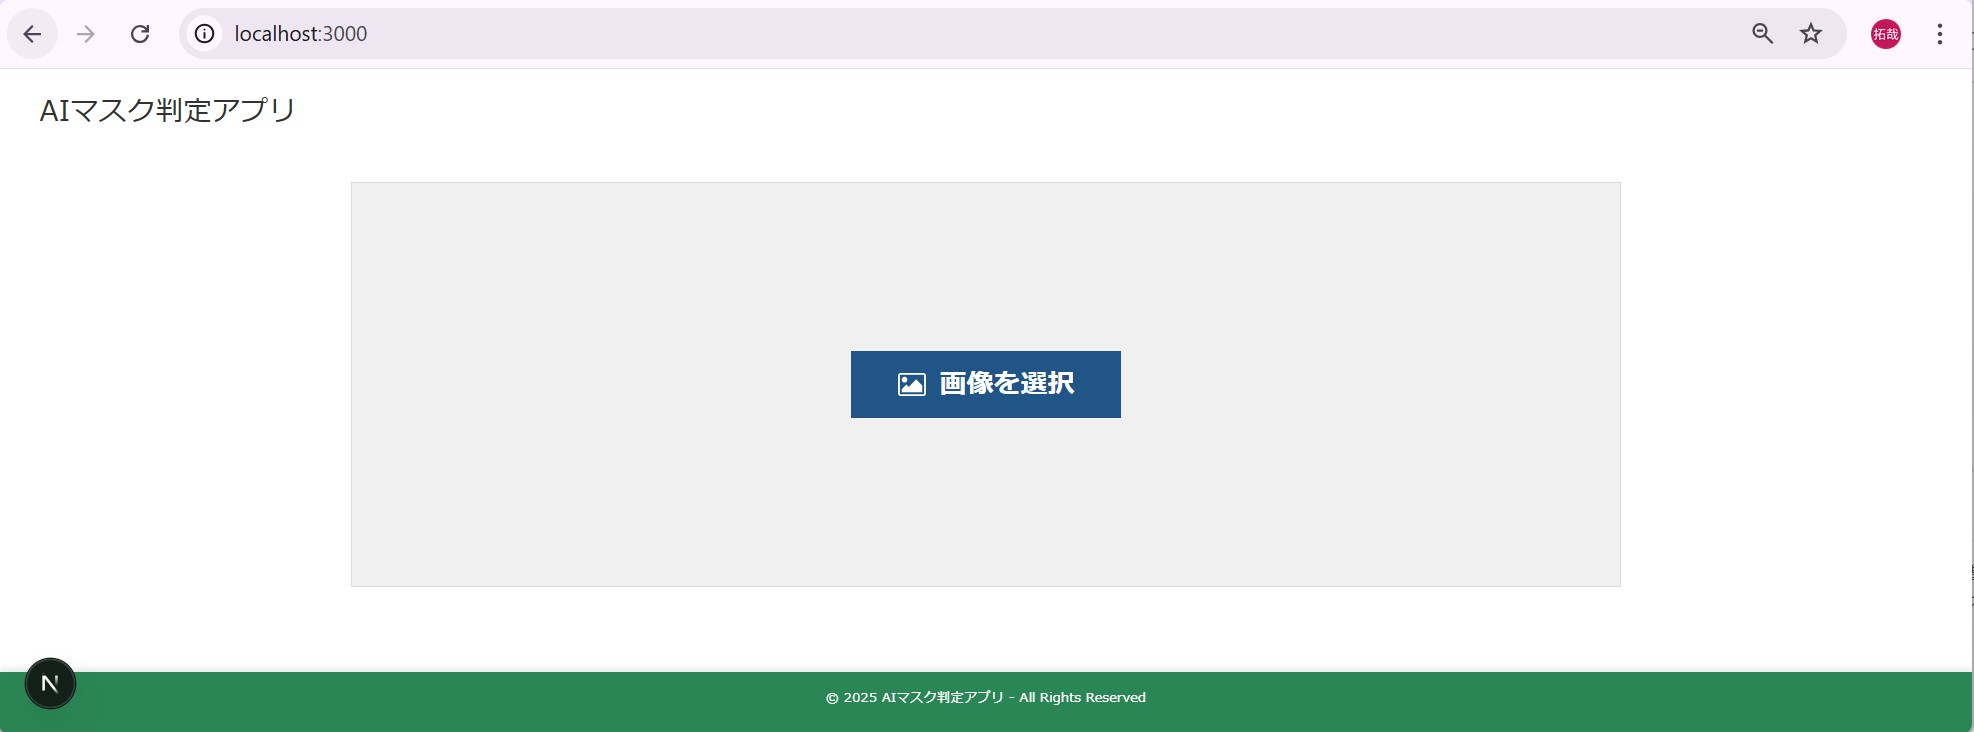
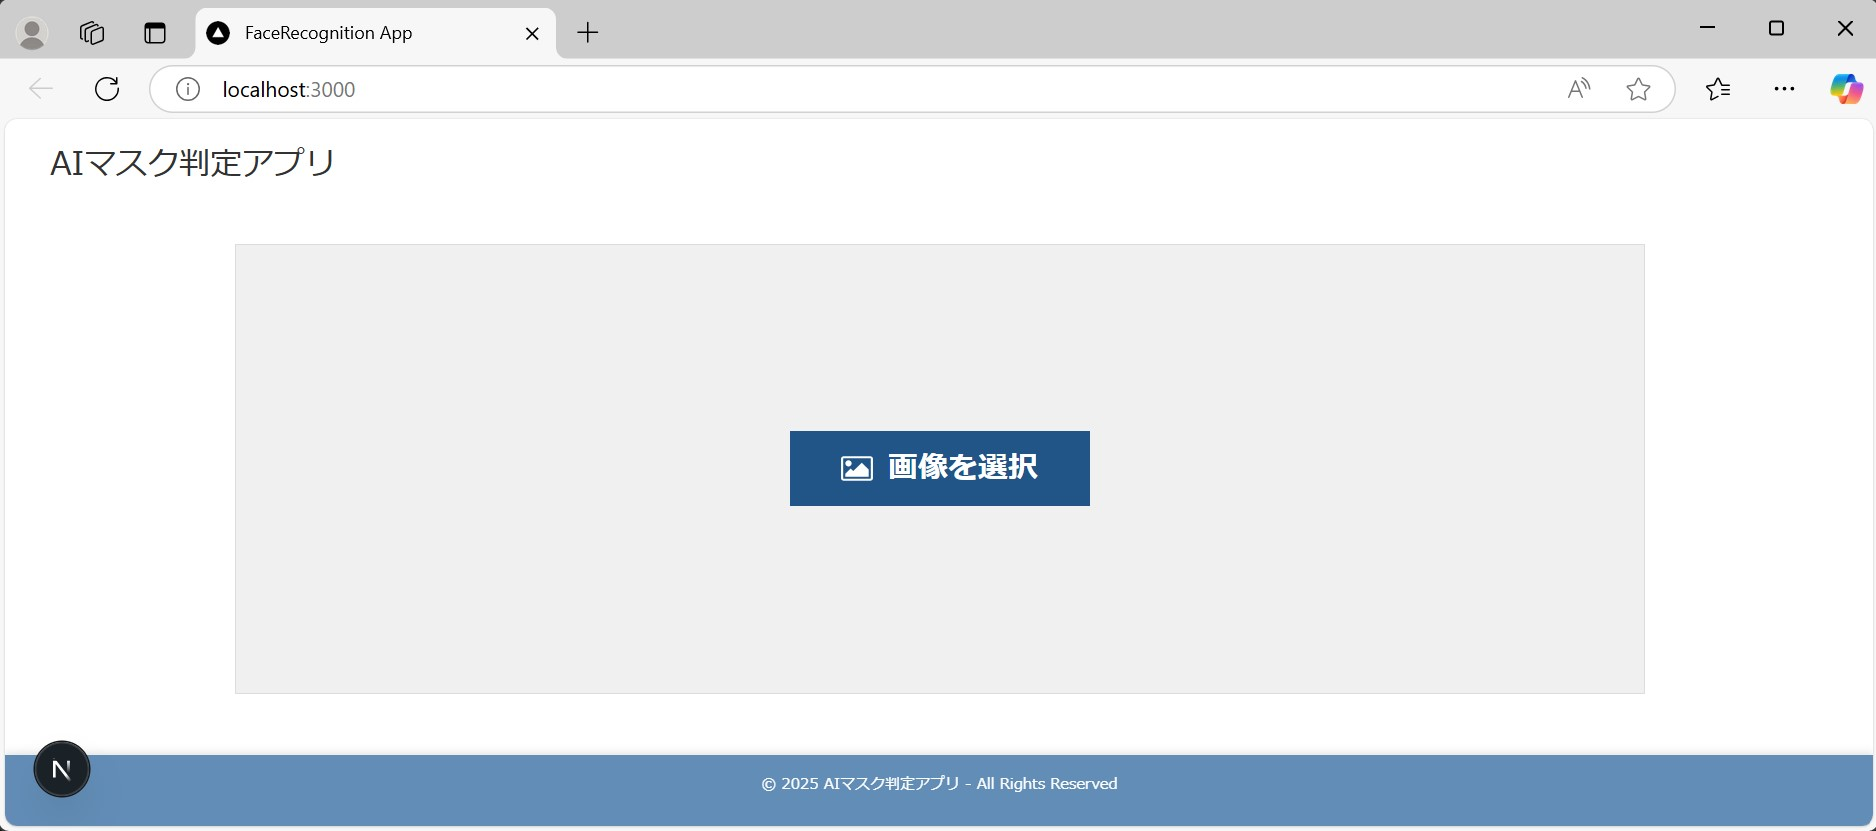
update

Changed region(s): [[0.0, 0.0, 1.0, 1.0], [0.4019, 0.4809, 0.5874, 0.6311]]

diff --git a/frontend/src/app/components/Footer/Footer.css b/frontend/src/app/components/Footer/Footer.css
@@ -8,7 +8,7 @@
 } */
 
 .footer {
-  background-color: #2a8654;
+  background-color: #628db6;
   color: #fff;
   font-size: 1rem;
   text-align: center;

diff --git a/README.md b/README.md
@@ -7,6 +7,7 @@
 まずはマスクの検出～
 ![判定前](./sample_image.jpg)
 ![判定後](./sample_image2.jpg)
+![判定後](./sample_image3.jpg)
 
 ## frontend
 
